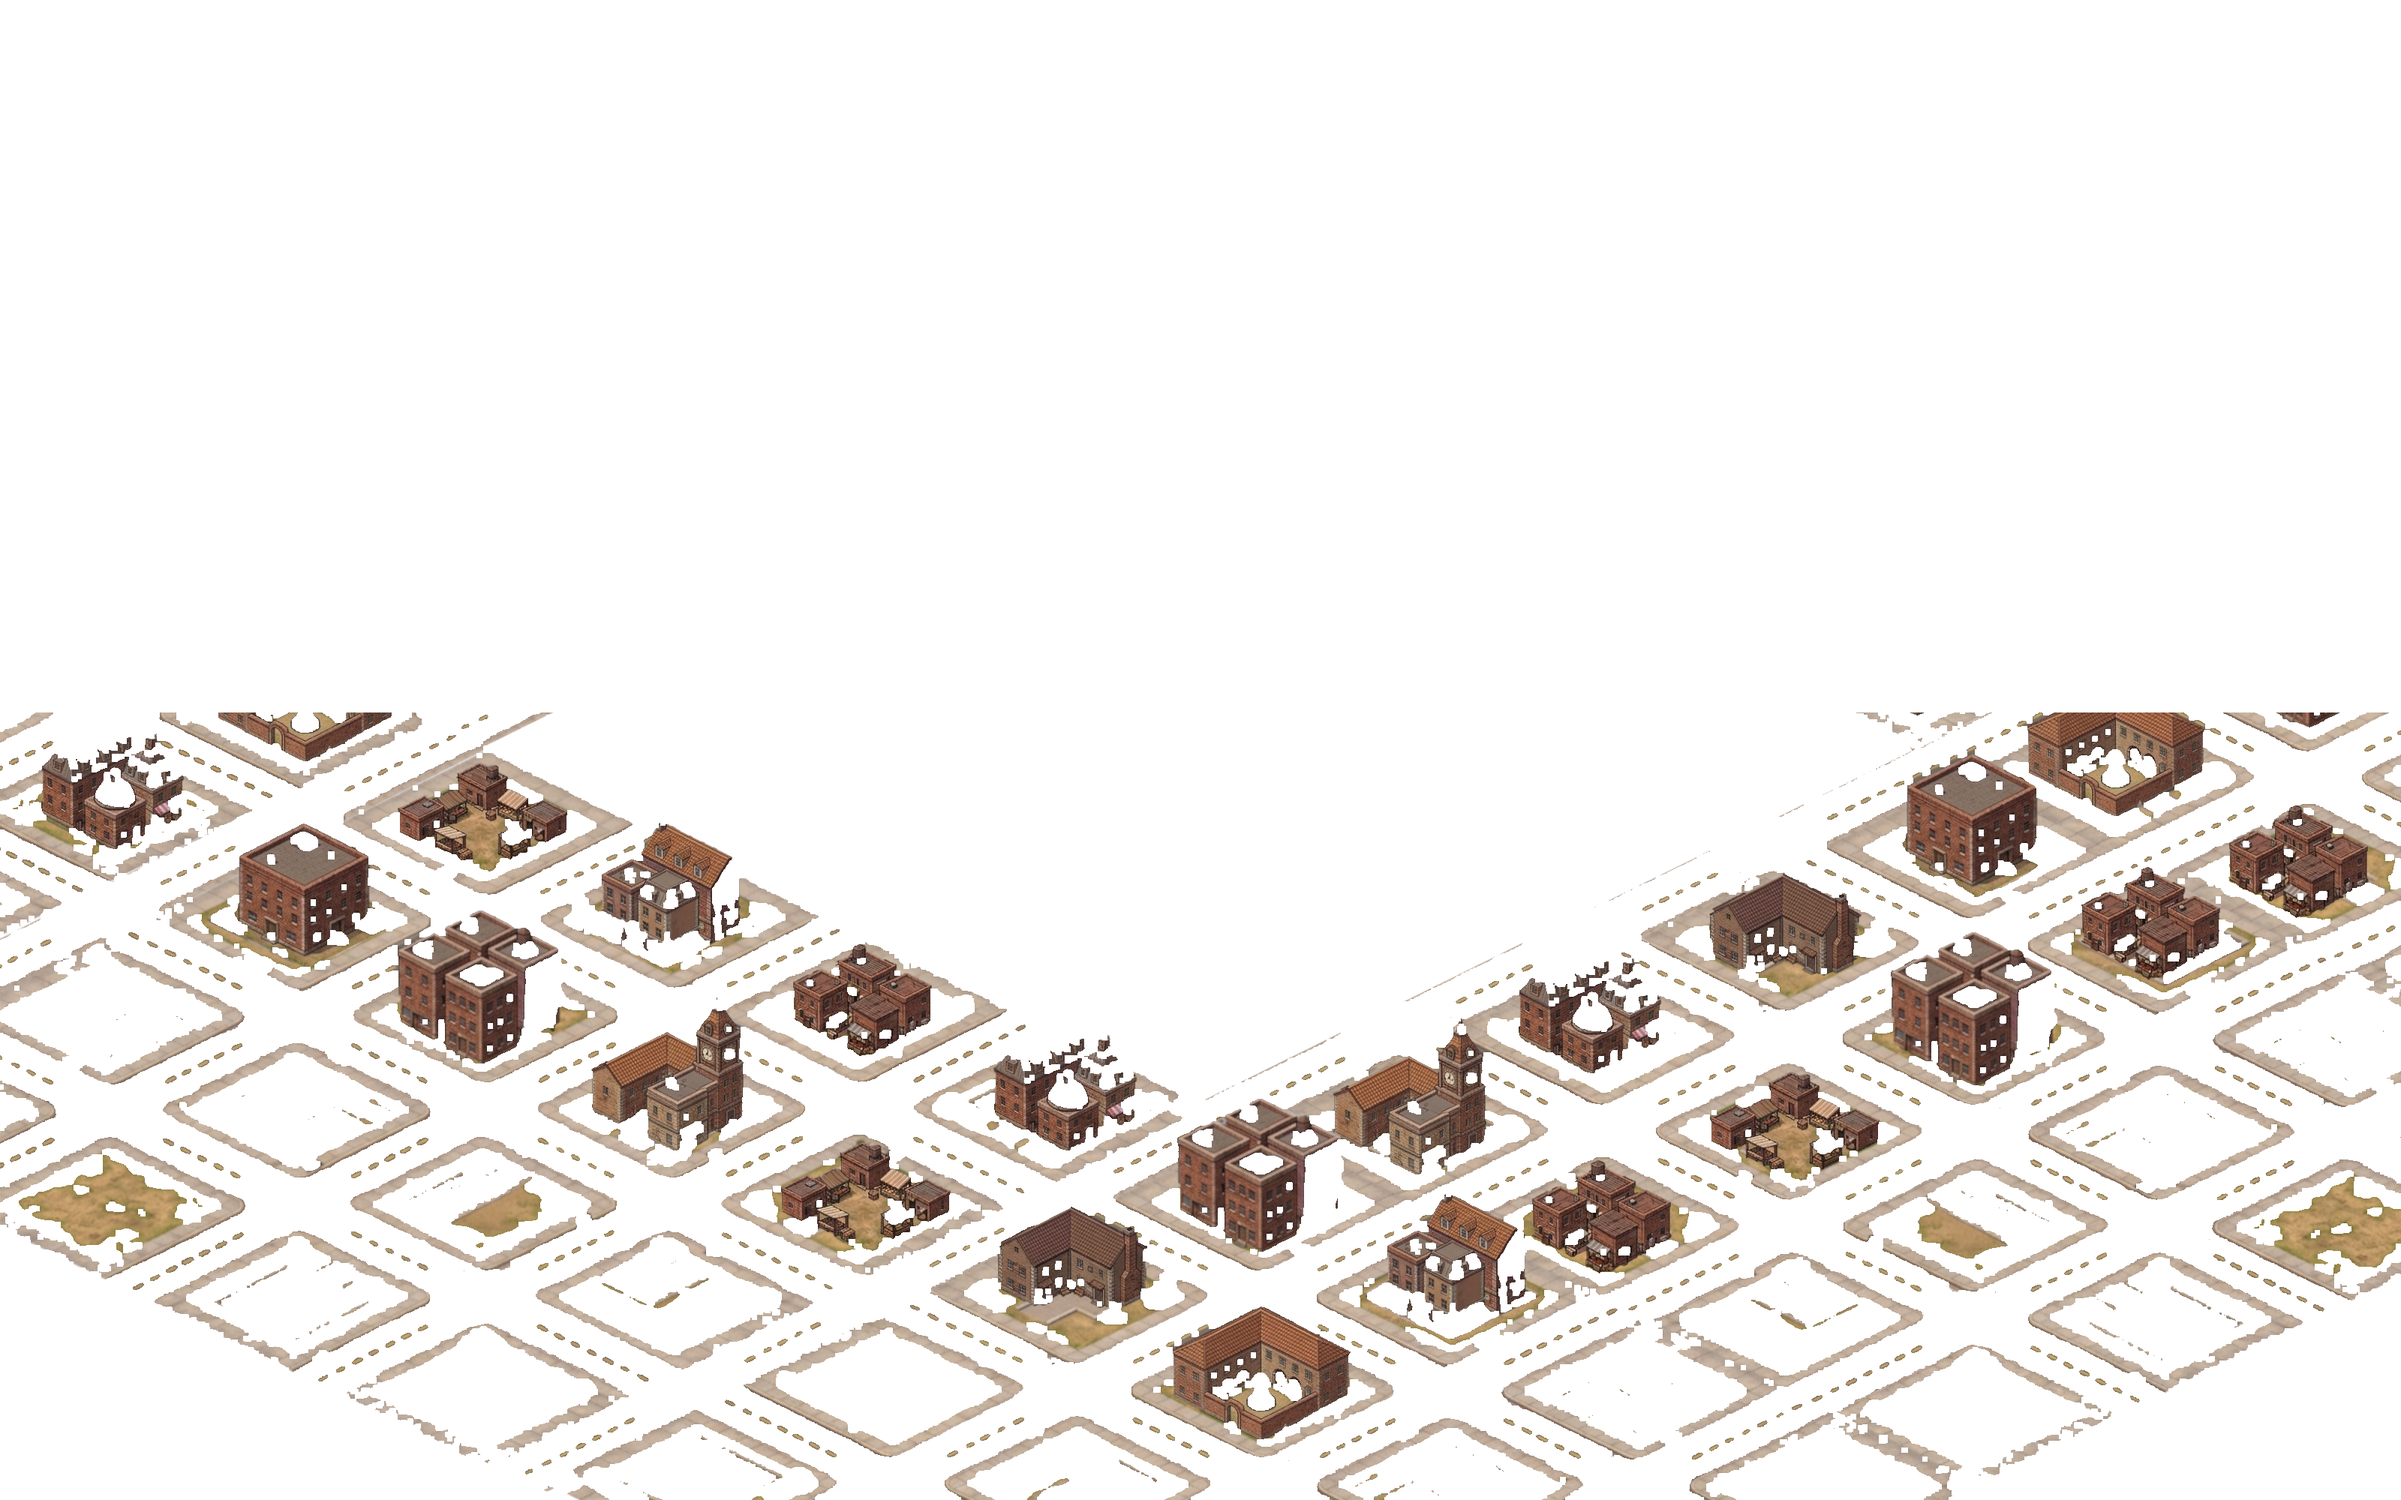
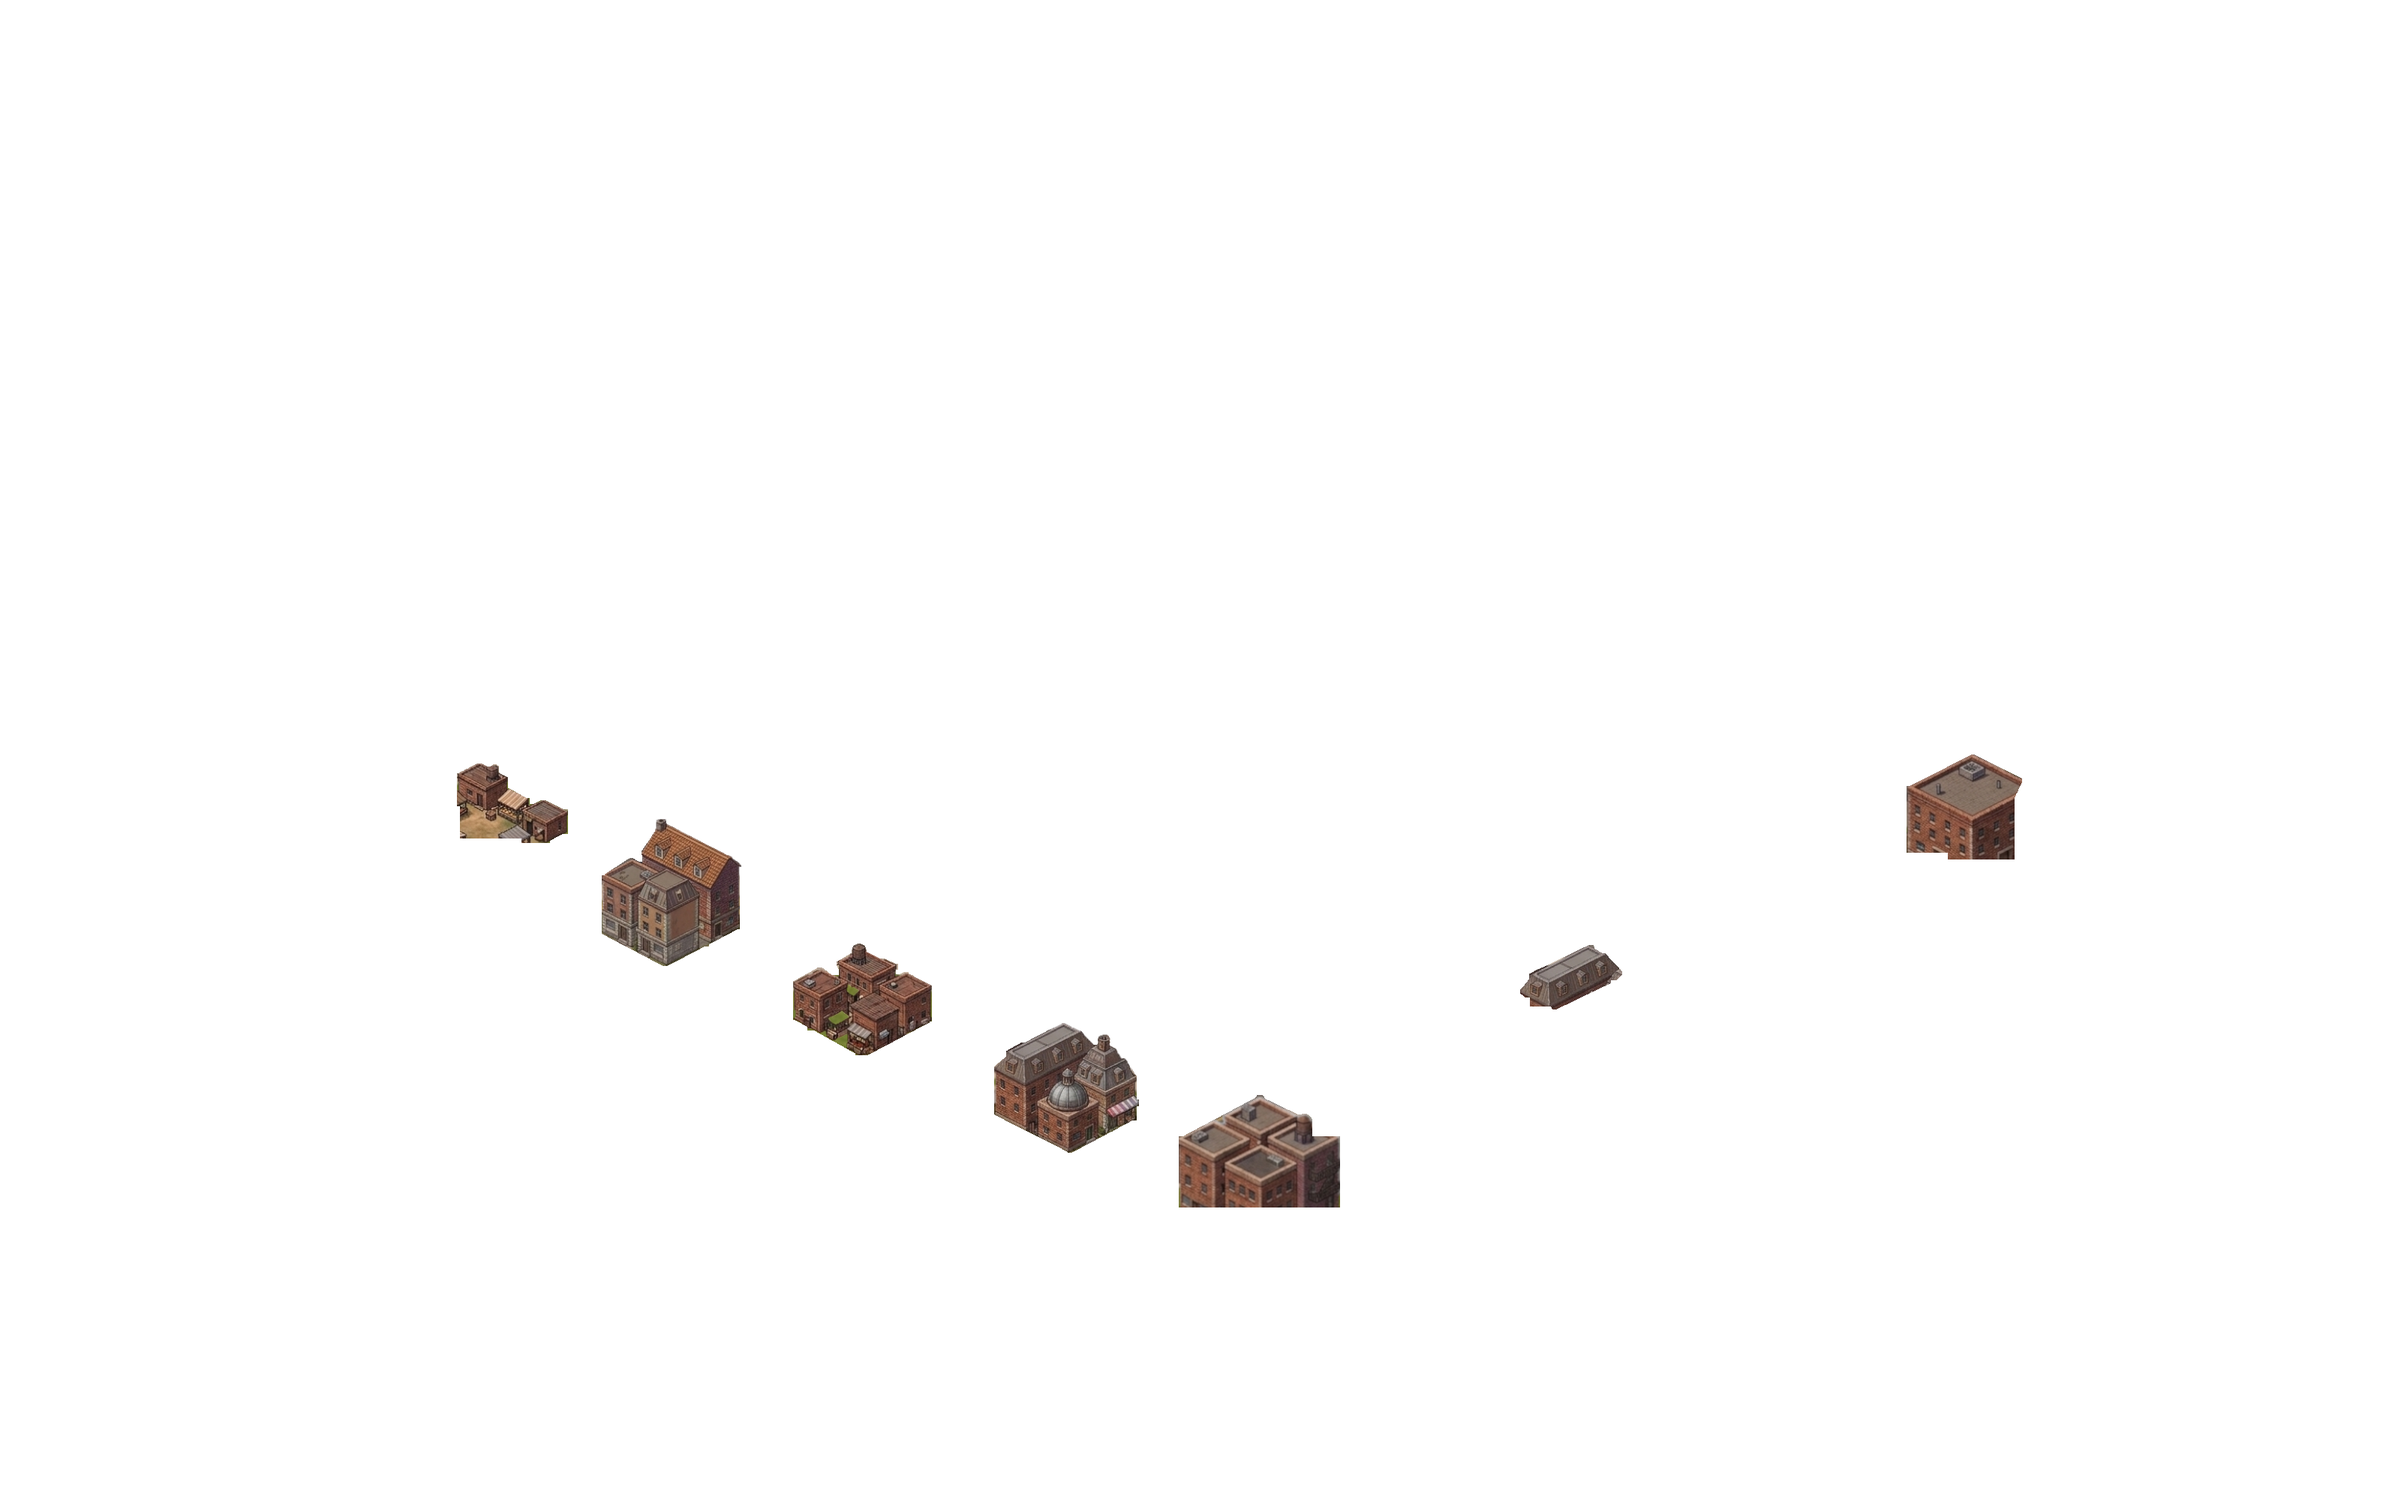
Front-Maske aus handmarkierten Haeusern (Magenta-Schablone)
Statt Farbheuristik jetzt exakt die vom Nutzer in Magenta markierten
vorderen Haeuser am Diamantrand. Schablone extrahiert, Kanten leicht
zurueckgezogen (Anti-Alias-Halo), darunter echte umgebung.png-Pixel
kopiert. Keine Gehsteige/Strassen mehr in der Maske -> nur diese Haeuser
liegen vor dem Spieler.

Claude-Session: https://claude.ai/code/session_013HJSBZ8F1qv1i9bfF7Wrnj

Changed region(s): [[0.0, 0.465, 1.0, 1.0], [0.7812, 0.961, 0.8438, 1.0]]

diff --git a/script.js b/script.js
@@ -6,7 +6,7 @@
 
 // Sichtbare Build-Marke: zeigt im Header "v7", sobald DIESE Datei geladen ist.
 // Bleibt im Header "v6" stehen, läuft noch eine alte (gecachte) script.js.
-const BUILD_MARKE = 'v123 – Maske nur Dächer, Begehbarkeit wiederhergestellt';
+const BUILD_MARKE = 'v124 – Front-Maske aus handmarkierten Häusern';
 // Nutzer-sichtbare App-Version (zur versionName im Play Store passend halten)
 const APP_VERSION = '1.0.0';
 
